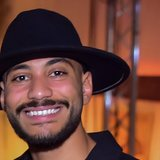
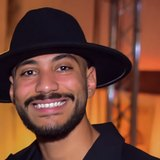
Founders: re-crop Seif's photo to keep the whole hat; same 4:5 frame on phones
Claude-Session: https://claude.ai/code/session_019x87ABY64BEzRNbhqgZ8Dk

diff --git a/de.html b/de.html
@@ -272,7 +272,7 @@ body.menu-open .burger span:nth-child(3){top:17px;transform:rotate(-45deg)}
 .founder .ftitle{display:inline-block;font-size:12px;font-weight:700;letter-spacing:.06em;text-transform:uppercase;color:var(--dark);background:var(--yellow);padding:4px 10px;border-radius:99px;width:max-content}
 .founder p{font-size:14.5px;color:var(--ink-2);line-height:1.55;margin-top:4px}
 .founder .fl{margin-top:8px}
-@media(max-width:560px){.tile.founder{flex-direction:column;gap:14px}.founder .fph{flex:none;aspect-ratio:4/4.2}.founder .fx{padding:4px 4px 8px}}
+@media(max-width:560px){.tile.founder{flex-direction:column;gap:14px}.founder .fph{flex:none;aspect-ratio:4/5;max-height:520px}.founder .fx{padding:4px 4px 8px}}
 .cav{width:56px;height:56px;border-radius:50%;object-fit:cover;border:2px solid var(--line-2);display:block;margin-bottom:10px}
 .tile.flat{background:var(--raised)}
 .tile.invert{background:#F5F6F8;border-color:#FFFFFF;color:#14161D}
@@ -901,7 +901,7 @@ footer .copy a{display:inline;padding:0;color:var(--ink-2);text-decoration:under
     </div>
   </div>
   <div class="tile s6 founder">
-    <div class="fph"><img src="media/img/founder-seif.jpg" width="720" height="900" loading="lazy" decoding="async" style="object-position:50% 15%" alt="Seif Abas, Mitgründer der Joy Boy Agency"></div>
+    <div class="fph"><img src="media/img/founder-seif.jpg" width="720" height="900" loading="lazy" decoding="async" alt="Seif Abas, Mitgründer der Joy Boy Agency"></div>
     <div class="fx">
       <span class="role">Die Gründer · 02</span>
       <h3>Seif Abas</h3>

diff --git a/it.html b/it.html
@@ -272,7 +272,7 @@ body.menu-open .burger span:nth-child(3){top:17px;transform:rotate(-45deg)}
 .founder .ftitle{display:inline-block;font-size:12px;font-weight:700;letter-spacing:.06em;text-transform:uppercase;color:var(--dark);background:var(--yellow);padding:4px 10px;border-radius:99px;width:max-content}
 .founder p{font-size:14.5px;color:var(--ink-2);line-height:1.55;margin-top:4px}
 .founder .fl{margin-top:8px}
-@media(max-width:560px){.tile.founder{flex-direction:column;gap:14px}.founder .fph{flex:none;aspect-ratio:4/4.2}.founder .fx{padding:4px 4px 8px}}
+@media(max-width:560px){.tile.founder{flex-direction:column;gap:14px}.founder .fph{flex:none;aspect-ratio:4/5;max-height:520px}.founder .fx{padding:4px 4px 8px}}
 .cav{width:56px;height:56px;border-radius:50%;object-fit:cover;border:2px solid var(--line-2);display:block;margin-bottom:10px}
 .tile.flat{background:var(--raised)}
 .tile.invert{background:#F5F6F8;border-color:#FFFFFF;color:#14161D}
@@ -901,7 +901,7 @@ footer .copy a{display:inline;padding:0;color:var(--ink-2);text-decoration:under
     </div>
   </div>
   <div class="tile s6 founder">
-    <div class="fph"><img src="media/img/founder-seif.jpg" width="720" height="900" loading="lazy" decoding="async" style="object-position:50% 15%" alt="Seif Abas, co-fondatore di Joy Boy Agency"></div>
+    <div class="fph"><img src="media/img/founder-seif.jpg" width="720" height="900" loading="lazy" decoding="async" alt="Seif Abas, co-fondatore di Joy Boy Agency"></div>
     <div class="fx">
       <span class="role">I fondatori · 02</span>
       <h3>Seif Abas</h3>

diff --git a/portfolio.html b/portfolio.html
@@ -272,7 +272,7 @@ body.menu-open .burger span:nth-child(3){top:17px;transform:rotate(-45deg)}
 .founder .ftitle{display:inline-block;font-size:12px;font-weight:700;letter-spacing:.06em;text-transform:uppercase;color:var(--dark);background:var(--yellow);padding:4px 10px;border-radius:99px;width:max-content}
 .founder p{font-size:14.5px;color:var(--ink-2);line-height:1.55;margin-top:4px}
 .founder .fl{margin-top:8px}
-@media(max-width:560px){.tile.founder{flex-direction:column;gap:14px}.founder .fph{flex:none;aspect-ratio:4/4.2}.founder .fx{padding:4px 4px 8px}}
+@media(max-width:560px){.tile.founder{flex-direction:column;gap:14px}.founder .fph{flex:none;aspect-ratio:4/5;max-height:520px}.founder .fx{padding:4px 4px 8px}}
 .cav{width:56px;height:56px;border-radius:50%;object-fit:cover;border:2px solid var(--line-2);display:block;margin-bottom:10px}
 .tile.flat{background:var(--raised)}
 .tile.invert{background:#F5F6F8;border-color:#FFFFFF;color:#14161D}
@@ -901,7 +901,7 @@ footer .copy a{display:inline;padding:0;color:var(--ink-2);text-decoration:under
     </div>
   </div>
   <div class="tile s6 founder">
-    <div class="fph"><img src="media/img/founder-seif.jpg" width="720" height="900" loading="lazy" decoding="async" style="object-position:50% 15%" alt="Seif Abas, co-founder of Joy Boy Agency"></div>
+    <div class="fph"><img src="media/img/founder-seif.jpg" width="720" height="900" loading="lazy" decoding="async" alt="Seif Abas, co-founder of Joy Boy Agency"></div>
     <div class="fx">
       <span class="role">The founders · 02</span>
       <h3>Seif Abas</h3>
